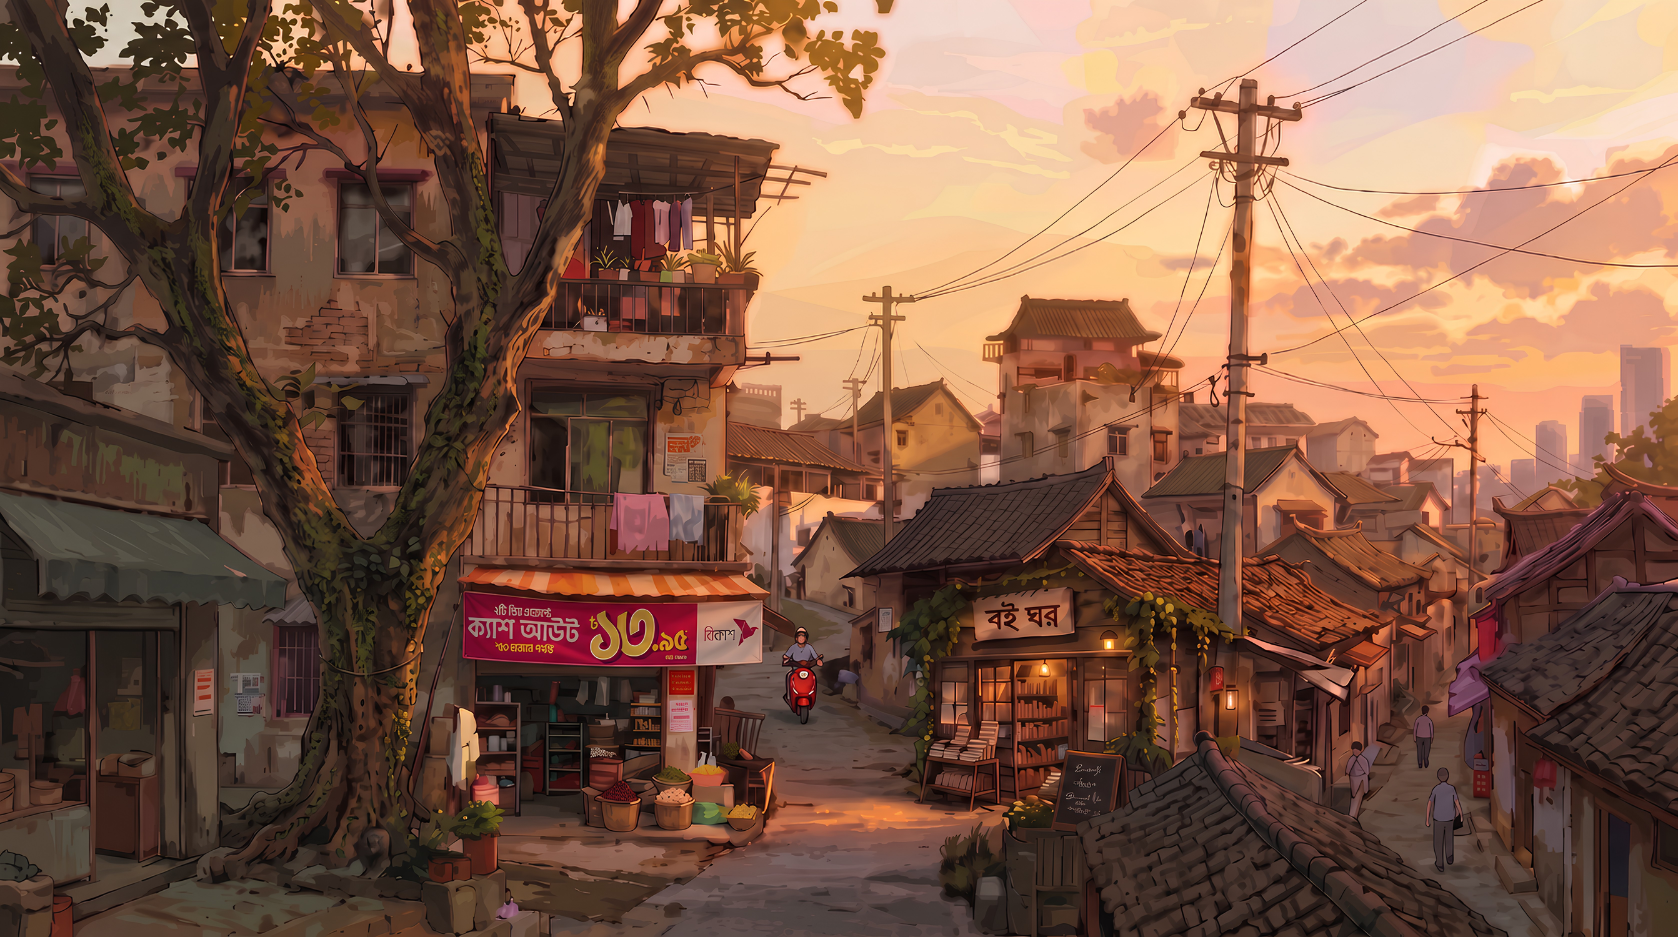
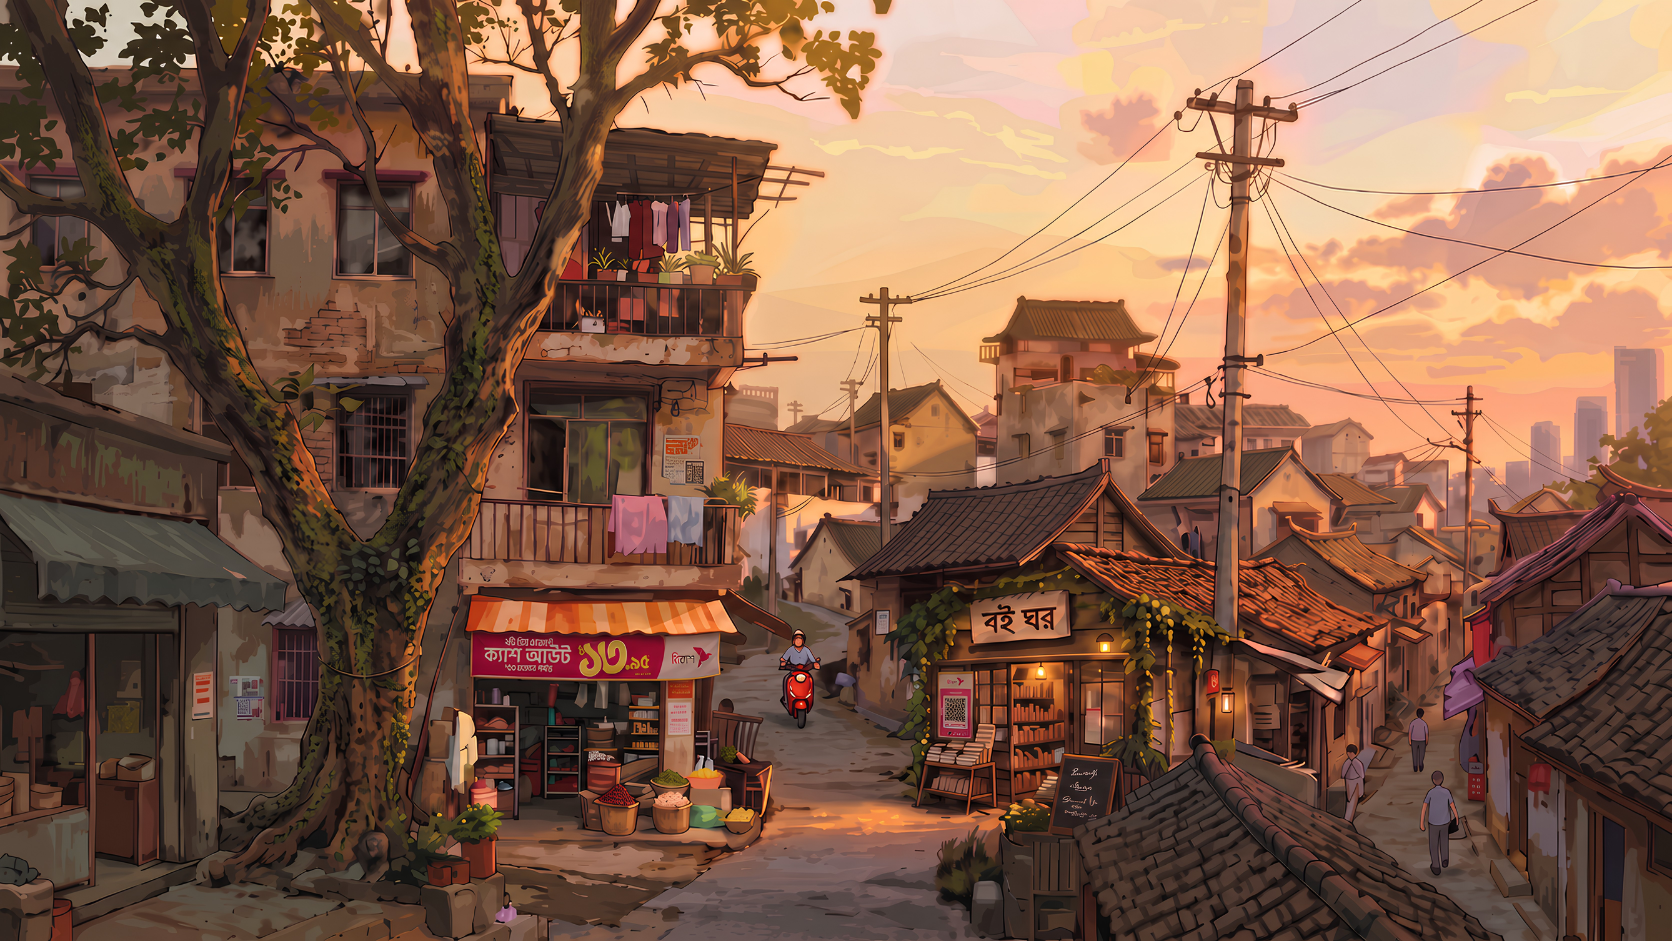
hero: re-place all three cutouts on the new plate; Faysal's new artwork
Nahian's numbers from ?place, 2026-09-24, with two assets changed under
them:

  plate.png   1678x937  -> 1672x941   (aspect 1.7908 -> 1.7768)
  faysal.png   732x1600 -> 2163x2560  (aspect 0.458 -> 0.845, new art)

  amena   cut x 0.3951 -> 0.3739   y 0.4737 (same)   w 0.027 -> 0.028
  rahim   cut x 0.3163 -> 0.3061   y 0.7728 -> 0.7693   w 0.055 (same)
  faysal  cut x 0.5509 -> 0.5359   y 0.75   -> 0.7347   w 0.032 -> 0.069

Faysal's w doubles because his new artwork is nearly twice as wide for
its height; it is the same figure on screen, not a bigger one.

THE CAMS WERE RE-DERIVED, not taken from the paste. The panel dumps the
cam alongside the cut, so the pasted cams were the previous derived
values and had gone stale exactly as the comment in this file warns —
the cams are functions of the cut boxes, and all three boxes moved:

  amena   (0.4100, 0.5000) -> (0.3879, 0.5007)   drifted +0.0221 in x
  rahim   (0.3438, 0.8388) -> (0.3336, 0.8348)   drifted +0.0102
  faysal  (0.5669, 0.8126) -> (0.5704, 0.8073)   drifted -0.0035

Left as pasted, Amena would have sat 2.2% of the plate off centre at the
one beat that has always been the reference for being centred.

This replate is a 0.78% aspect shift, against 0.10% for the last one —
still small but an order of magnitude less so, which is why the boxes
were re-placed rather than carried over. All three centred cams clear
the cover clamp on desktop; Rahim and Faysal still clamp on a phone, as
[…]

diff --git a/web/src/lib/hero-beats.ts b/web/src/lib/hero-beats.ts
@@ -4,7 +4,7 @@
    cutouts from the same numbers the camera uses).
 
    Camera targets and cutout boxes are fractions of the PLATE. The
-   plate (1678×937, replated 2026-09-22 on the client's note; was
+   plate (1672×941, replated 2026-09-24 on the client's note; was
    2748×1536) has the three figures removed; the
    cutouts are the only people, always visible, sitting where the
    figures were painted. Placed by Nahian with the placement panel
@@ -24,13 +24,15 @@ export type Beat = { id: string; cam: Cam; cut?: Cut };
 /* Only the ASPECT of this is load-bearing — every consumer cover-fits
    it into a box (scene-rig's `box`, Bird's mark, the placement panel's
    `hOf`), so the pixel counts cancel. Kept truthful anyway. The replate
-   is 1.7908 against the old 1.7891: a 0.1% difference, so every `cam`
-   and `cut` fraction below carries over.
+   is 1.7768 against 1.7908 the day before and 1.7891 originally — a
+   0.78% shift this time, where the first replate was 0.10%. Small, but
+   an order of magnitude less small, so the fractions below were
+   re-placed against it rather than carried over.
 
    Unlike HeroScene's width ladder this cannot be read from the image:
    the module stays import-free so the components can use it at build
    time. Typed by hand, and a pixel of drift in it is not load-bearing. */
-export const PLATE = { w: 1678, h: 937 };
+export const PLATE = { w: 1672, h: 941 };
 
 /* CENTRING A SUBJECT. `poseFor` places cam.x/cam.y at the viewport's
    centre, so a subject is centred exactly when its cam IS the centre of
@@ -39,10 +41,14 @@ export const PLATE = { w: 1678, h: 937 };
      cam.x = cut.x + cut.w / 2
      cam.y = cut.y + cut.w * (imgH / imgW) * (PLATE.w / PLATE.h) / 2
 
-   Amena was already built this way — (0.4100, 0.5000) against a true
-   centre of (0.4086, 0.5000). Rahim and Faysal were not: Rahim sat
-   0.0988 of the plate's height below centre. Both centred 2026-09-22 on
-   Nahian's ask, and zoomed in with it.
+   Amena was already built this way. Rahim and Faysal were not — Rahim
+   sat 0.0988 of the plate's height below centre — and both were centred
+   2026-09-22 on Nahian's ask, and zoomed in with it.
+
+   Re-derived 2026-09-24 after all three cut boxes were re-placed against
+   the new plate and Faysal's new artwork. The cams pasted with those
+   boxes were the OLD derived ones and had gone stale exactly as this
+   comment warns: Amena had drifted +0.0221 in x, Rahim +0.0102.
 
    The zoom is not independent of the centring. The cover clamp in
    `poseFor` keeps cam.y inside [vh/2H_s, 1 - vh/2H_s], and at s = 3
@@ -57,17 +63,17 @@ export const BEATS: Beat[] = [
   { id: 'open', cam: { x: 0.5, y: 0.5, s: 1 } },
   {
     id: 'amena',
-    cam: { x: 0.41, y: 0.5, s: 4 },
-    cut: { x: 0.3951, y: 0.4737, w: 0.027, soft: 0 },
+    cam: { x: 0.3879, y: 0.5007, s: 4 },
+    cut: { x: 0.3739, y: 0.4737, w: 0.028, soft: 0 },
   },
   {
     id: 'rahim',
-    cam: { x: 0.3438, y: 0.8388, s: 3.75 },
-    cut: { x: 0.3163, y: 0.7728, w: 0.055, soft: 0 },
+    cam: { x: 0.3336, y: 0.8348, s: 3.75 },
+    cut: { x: 0.3061, y: 0.7693, w: 0.055, soft: 0 },
   },
   {
     id: 'faysal',
-    cam: { x: 0.5669, y: 0.8126, s: 4 },
-    cut: { x: 0.5509, y: 0.75, w: 0.032, soft: 0 },
+    cam: { x: 0.5704, y: 0.8073, s: 4 },
+    cut: { x: 0.5359, y: 0.7347, w: 0.069, soft: 0 },
   },
 ];
